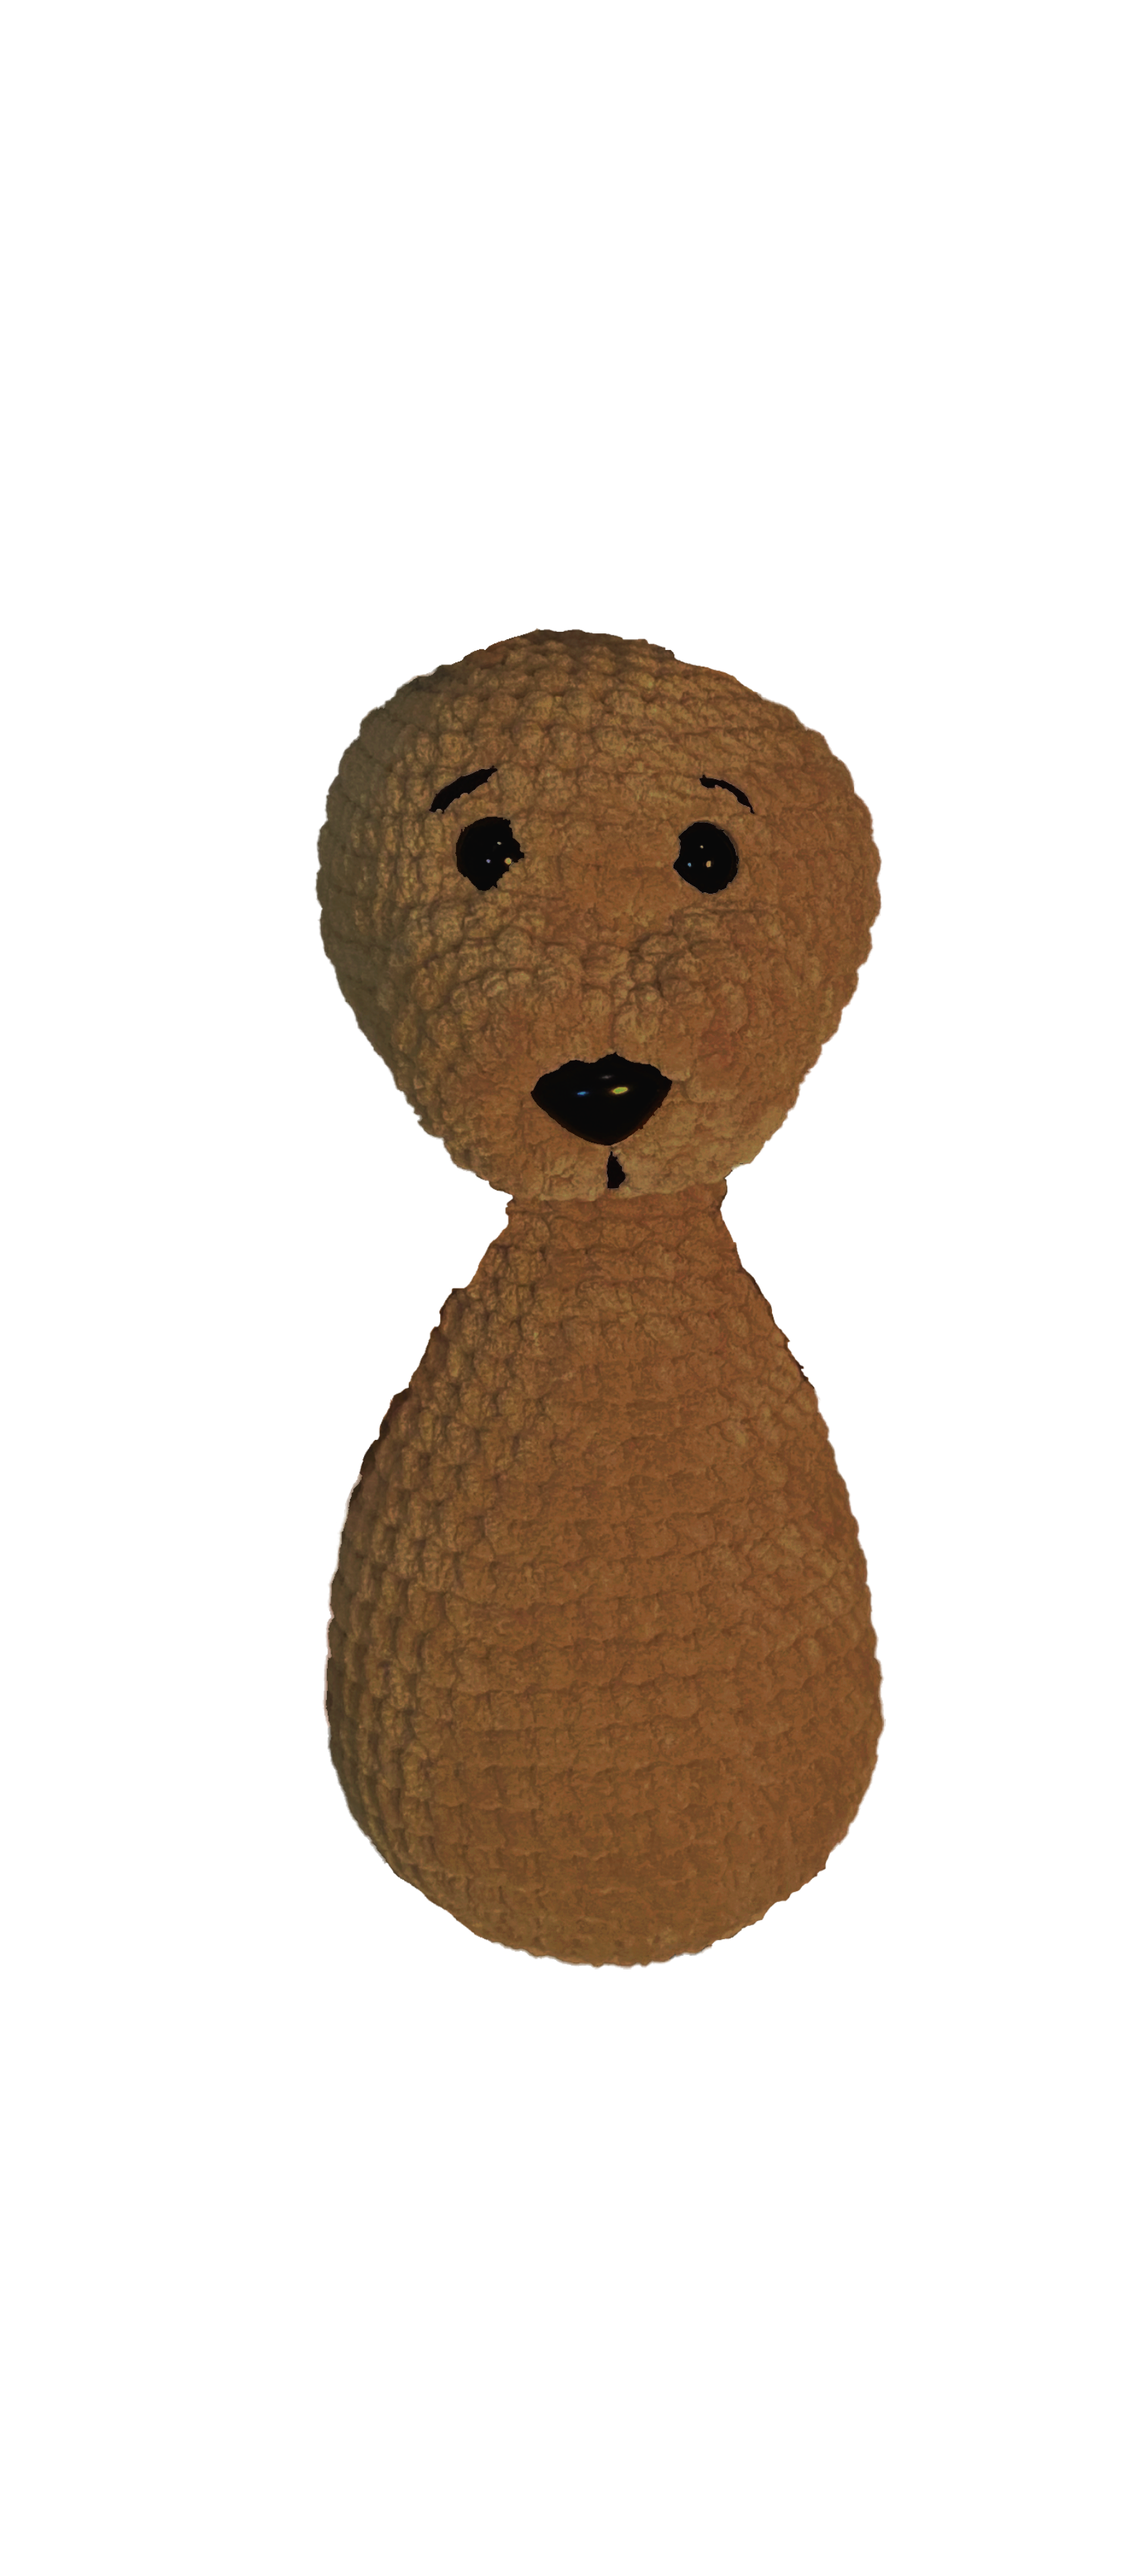
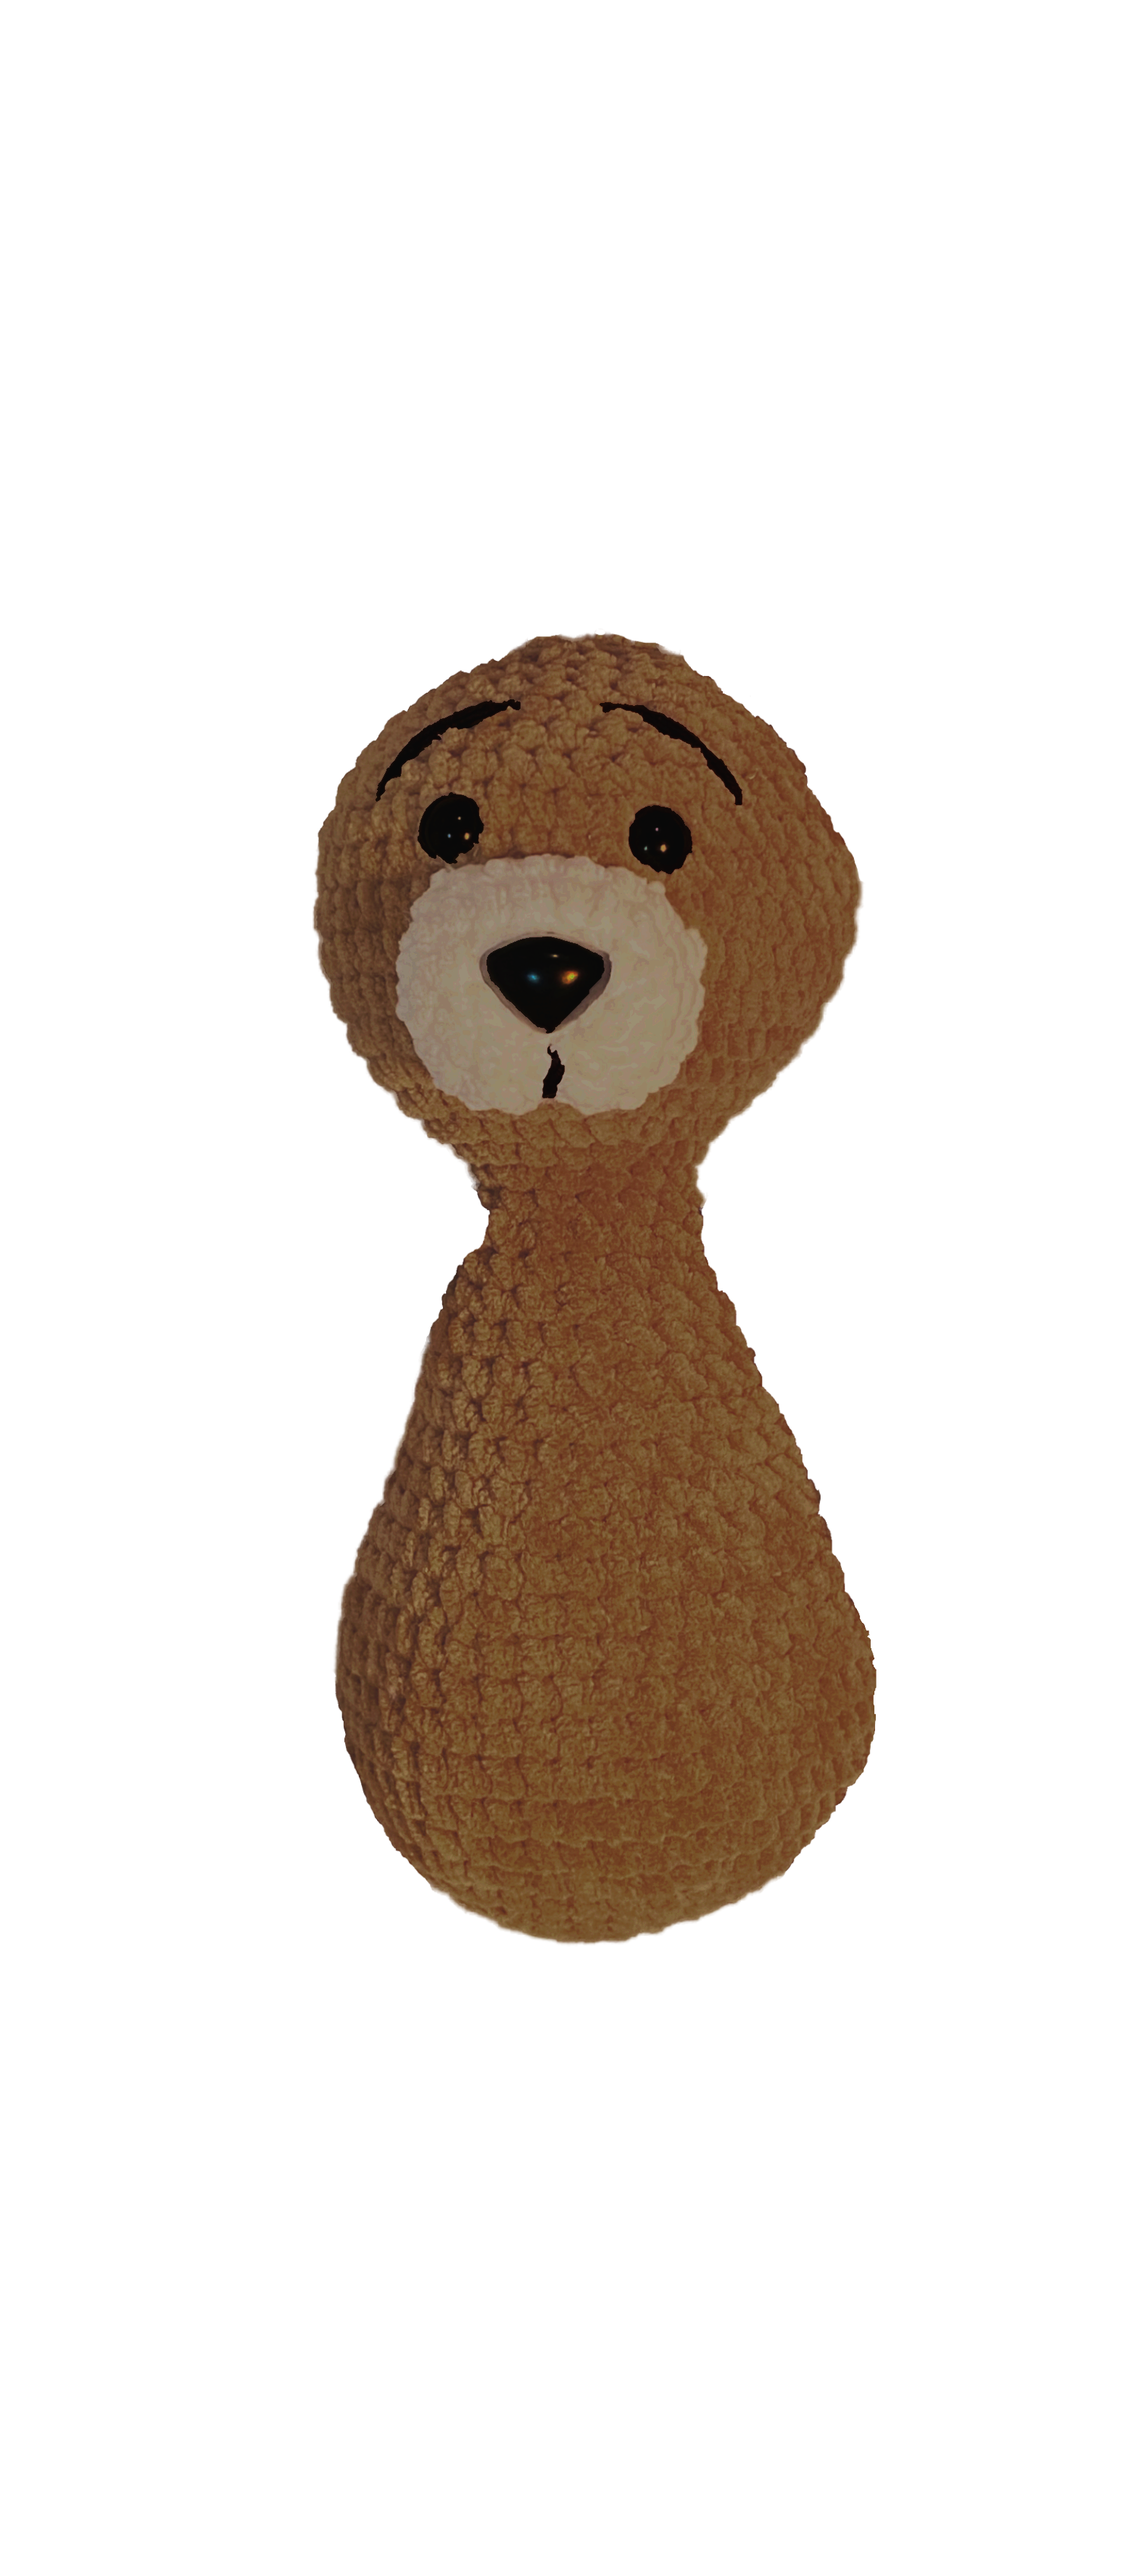
All body parts & colours images added + z-index

Changed region(s): [[0.2789, 0.2168, 0.8057, 0.7744], [0.5888, 0.6815, 0.6198, 0.7125]]

diff --git a/client/src/pages/Cart.jsx b/client/src/pages/Cart.jsx
@@ -90,17 +90,17 @@ const Cart = () => {
 
                                     {/*<Image src={product.img} />*/}
                                 <ImageContainer>
-                                    <Image id="headImg" src={`/assets/head/${product.headColour}/${product.headShape}.png`} style={{zIndex: "10"}}/>
+                                    <Image id="headImg" src={`/assets/head/${product.headColour}/${product.headShape}.png`} style={{zIndex: "11"}}/>
                                     {product.headShape === "Eye patch" &&
-                                        <Image id="eyesImg" src={`/assets/eyes/${product.eyesColour}/Eye.png`} style={{zIndex: "11"}}/>
+                                        <Image id="eyesImg" src={`/assets/eyes/${product.eyesColour}/Eye.png`} style={{zIndex: "12"}}/>
                                     }
                                     {product.headShape === "Big eyes" &&
-                                        <Image id="eyesImg" src={`/assets/eyes/${product.eyesColour}/Eyes.png`} style={{zIndex: "11"}}/>
+                                        <Image id="eyesImg" src={`/assets/eyes/${product.eyesColour}/Eyes.png`} style={{zIndex: "12"}}/>
                                     }
                                     {product.headShape === "Smile" &&
-                                        <Image id="noseImg" src={`/assets/nose/${product.noseColour}/Nose.png`} style={{zIndex: "11"}}/>
+                                        <Image id="noseImg" src={`/assets/nose/${product.noseColour}/Nose.png`} style={{zIndex: "12"}}/>
                                     }
-                                    <Image id="earsImg" src={`/assets/ears/${product.earsColour}/${product.earsShape}.png`} style={{zIndex: "11"}}/>
+                                    <Image id="earsImg" src={`/assets/ears/${product.earsColour}/${product.earsShape}.png`} style={{zIndex: "10"}}/>
                                     {product.earsShape === "Round" &&
                                         <Image id="innerEarsImg" src={`/assets/innerEars/${product.innerEarsColour}/Inner ears.png`} style={{zIndex: "11"}}/>
                                     }

diff --git a/client/src/components/Product.jsx b/client/src/components/Product.jsx
@@ -29,7 +29,7 @@ const Product = ({item}) => {
     const dispatch = useDispatch();
     // const [productQuantity, setProductQuantity] = useState(1);
     const [product, setProduct] = useState([]);
-    const [headShape, setHeadShape] = useState("Smile");
+    const [headShape, setHeadShape] = useState("Regular");
     const [earsShape, setEarsShape] = useState("Small");
     const [armsShape, setArmsShape] = useState("Short");
     const [legsShape, setLegsShape] = useState("Short");
